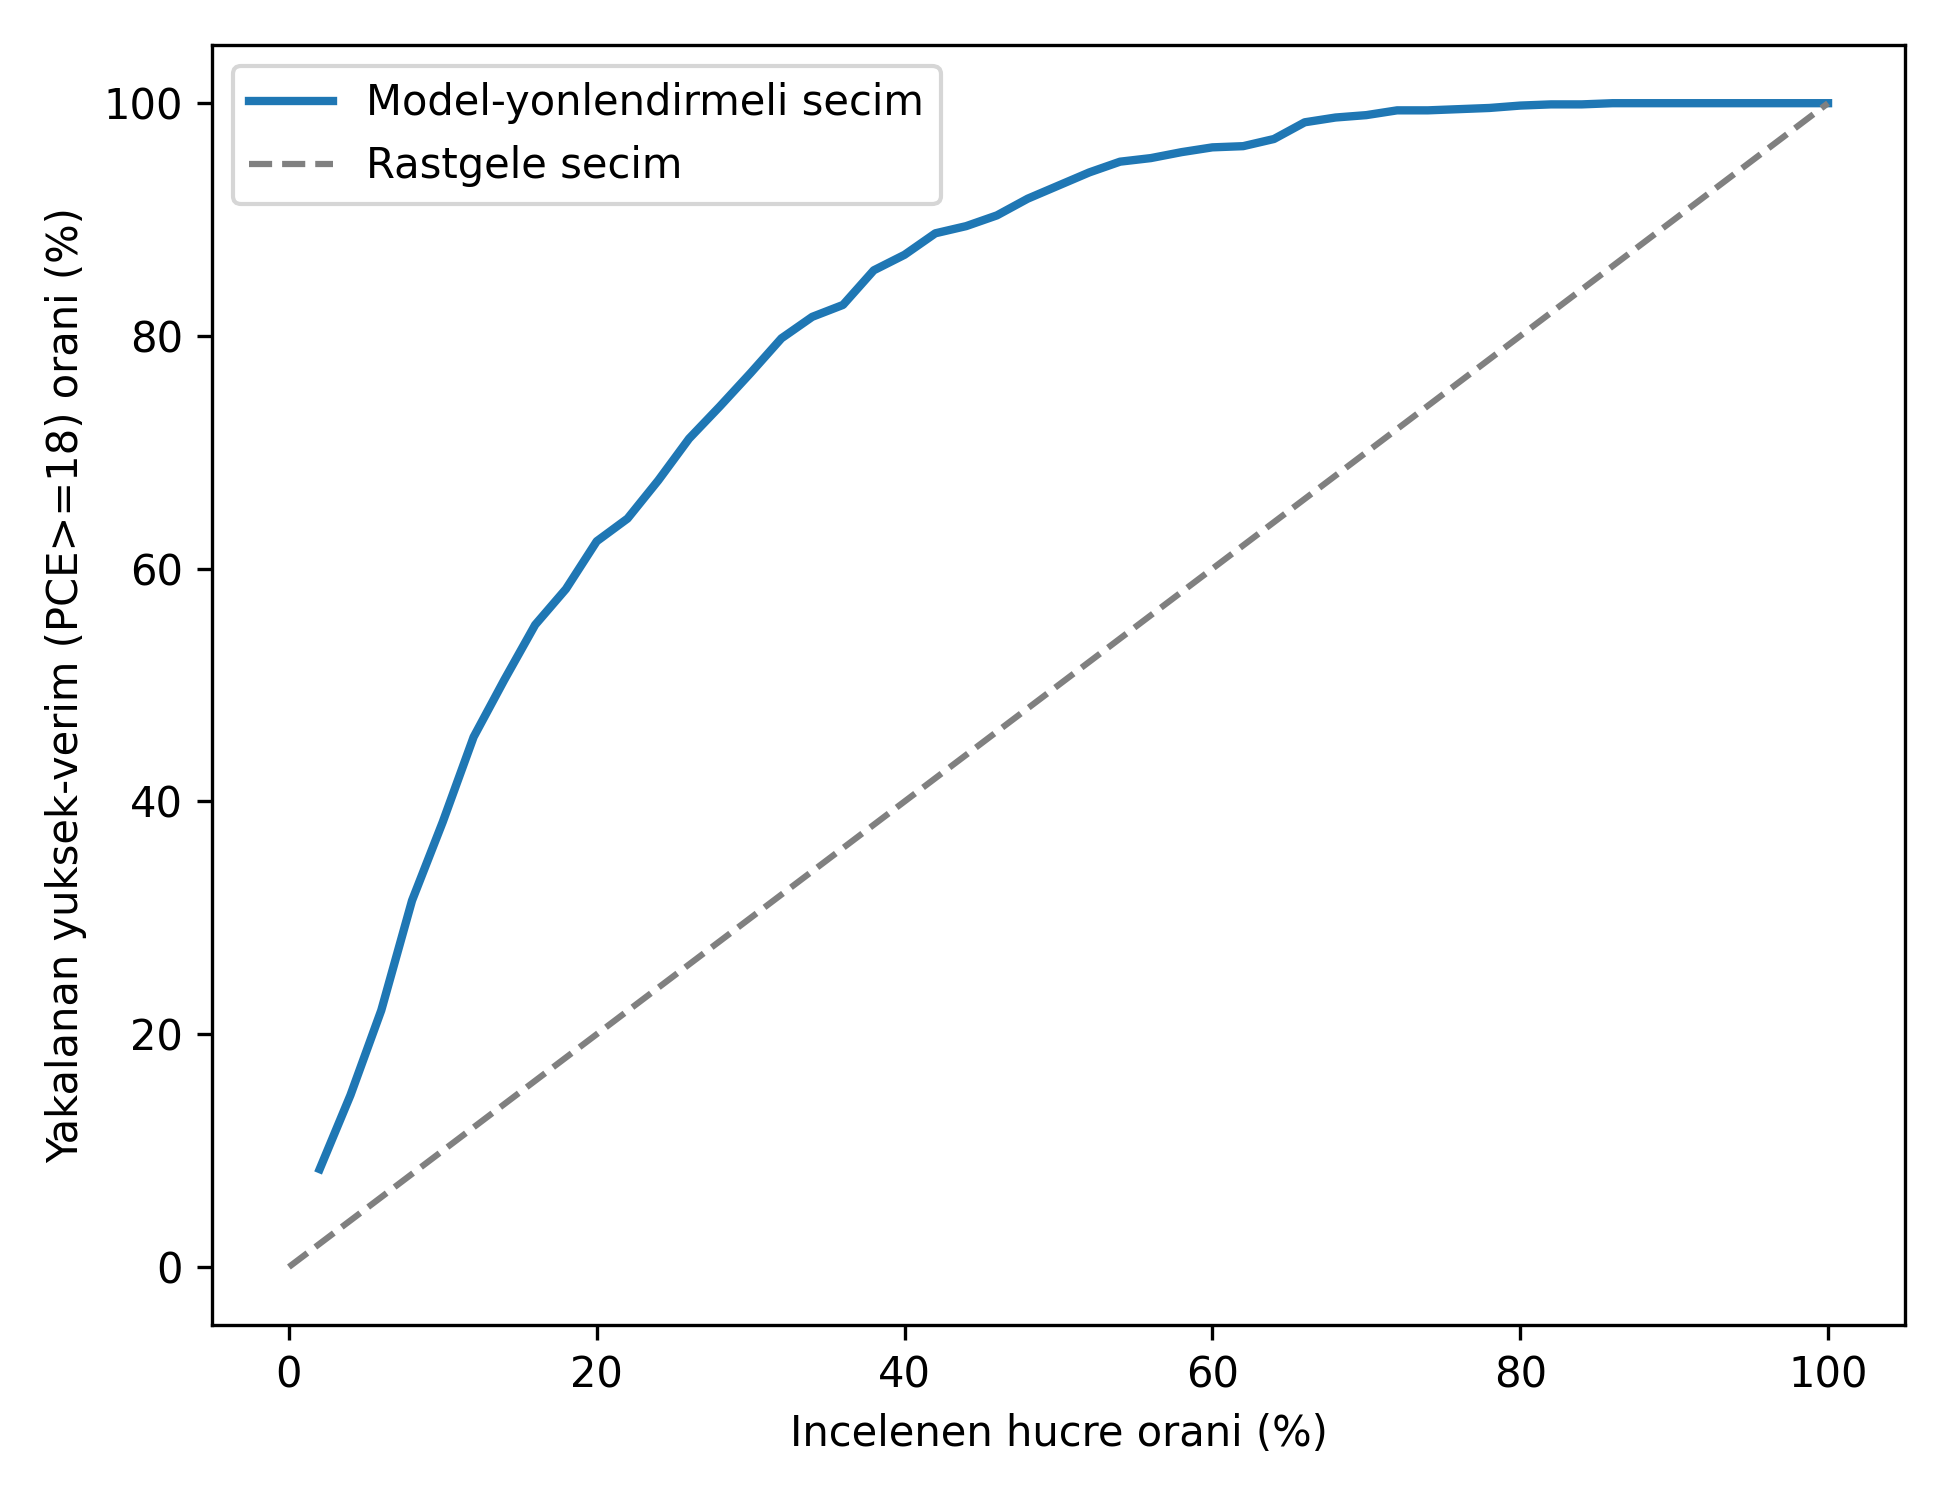
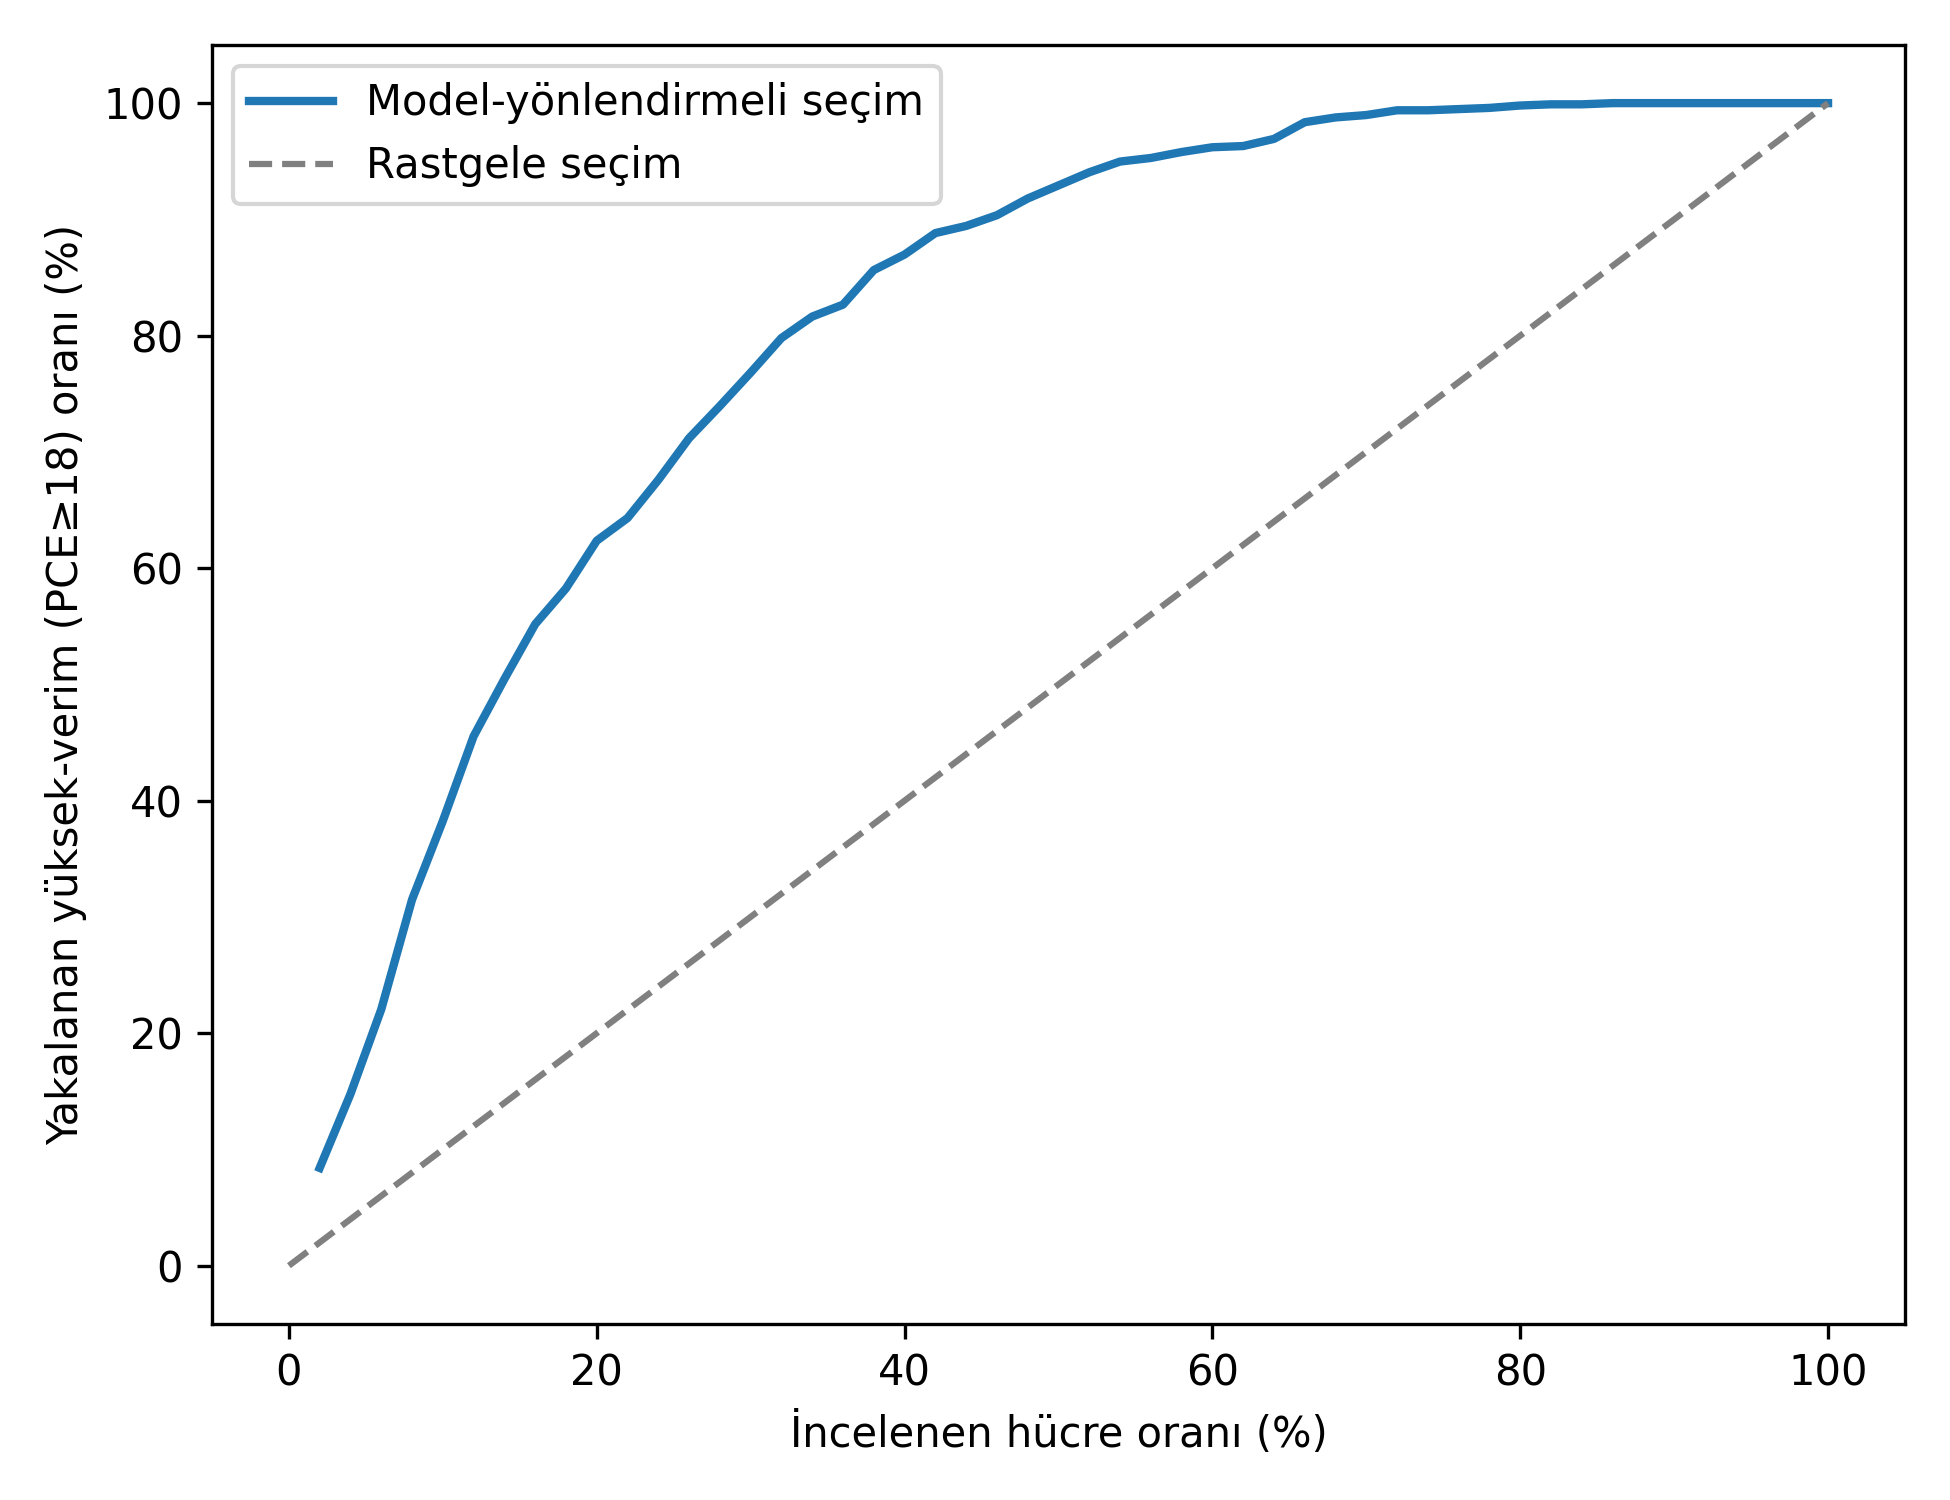
Sekil etiketlerinde Turkce karakter duzeltmesi: gains_curve (4.10) ve actual_vs_predicted (4.11) eksen/lejant yazilari dogru diyakritiklerle; PNG'ler ayni commit'li tahmin CSV'sinden yeniden uretildi, sayisal ciktilar (enrichment/metadata) degismedi

diff --git a/scripts/07_screening_utility.py b/scripts/07_screening_utility.py
@@ -38,10 +38,10 @@ def main():
 
     fr, cap = gains_curve(y_true, y_pred, GAINS_THR)
     plt.figure(figsize=(6.5, 5))
-    plt.plot(fr * 100, cap * 100, linewidth=2, label="Model-yonlendirmeli secim")
-    plt.plot([0, 100], [0, 100], "--", color="gray", label="Rastgele secim")
-    plt.xlabel("Incelenen hucre orani (%)")
-    plt.ylabel(f"Yakalanan yuksek-verim (PCE>={GAINS_THR}) orani (%)")
+    plt.plot(fr * 100, cap * 100, linewidth=2, label="Model-yönlendirmeli seçim")
+    plt.plot([0, 100], [0, 100], "--", color="gray", label="Rastgele seçim")
+    plt.xlabel("İncelenen hücre oranı (%)")
+    plt.ylabel(f"Yakalanan yüksek-verim (PCE≥{GAINS_THR}) oranı (%)")
     plt.legend(); plt.tight_layout(); plt.savefig(outdir / "gains_curve.png", dpi=300); plt.close()
 
     json.dump({"n_test": int(len(df)), "spearman": float(rho), "gains_threshold": GAINS_THR},

diff --git a/src/perovskite_ml/models/reporting.py b/src/perovskite_ml/models/reporting.py
@@ -34,6 +34,6 @@ def save_scatter(y_true, y_pred, path):
     plt.figure(figsize=(6,6))
     plt.scatter(y_true,y_pred,s=6,alpha=0.25)
     lim=[min(y_true.min(),y_pred.min()),max(y_true.max(),y_pred.max())]
-    plt.plot(lim,lim,"--",color="red",label="ideal (tahmin=gercek)")
-    plt.xlabel("Gercek PCE (%)"); plt.ylabel("Model tahmini PCE (%)")
+    plt.plot(lim,lim,"--",color="red",label="ideal (tahmin=gerçek)")
+    plt.xlabel("Gerçek PCE (%)"); plt.ylabel("Model tahmini PCE (%)")
     plt.legend(); plt.tight_layout(); plt.savefig(path,dpi=300); plt.close()
